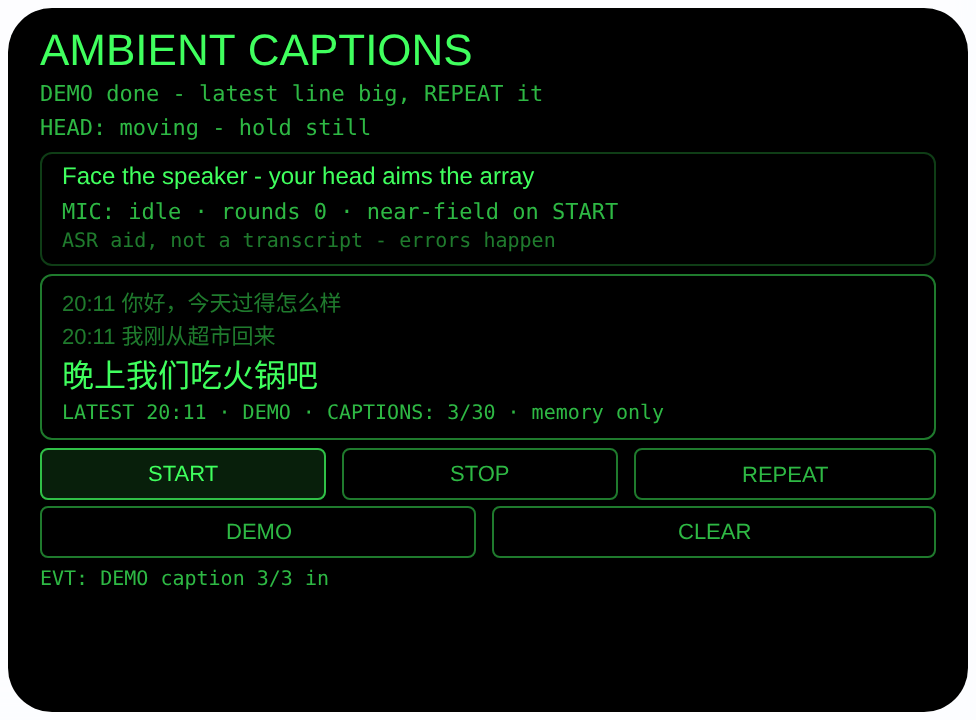
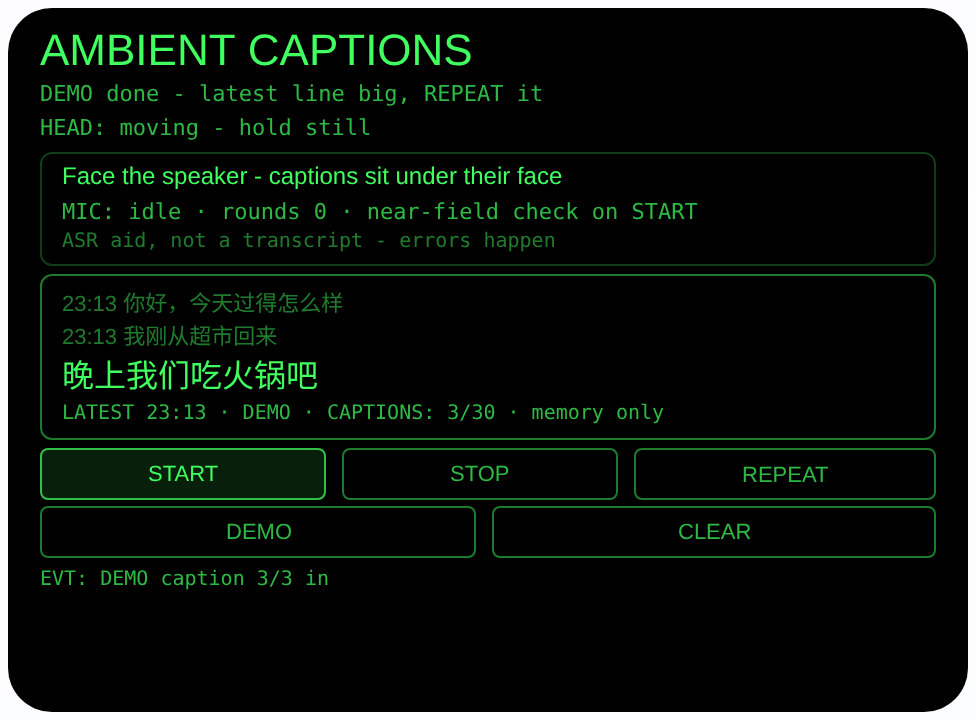
Rework #20 ambient-captions for capability-boundary audit (v1.0.1)

Changed region(s): [[0.2766, 0.2139, 0.707, 0.3056], [0.0922, 0.3972, 0.3689, 0.4889], [0.1537, 0.55, 0.2152, 0.5806]]

diff --git a/ambient-captions/README.md b/ambient-captions/README.md
@@ -27,21 +27,29 @@
 
 ## 指向性设计（为什么必须用眼镜）
 
-- **头就是阵列的瞄准器（HEAD + MIC4）**：4 麦阵列跟
-  着你的头朝向收音，你正对说话人时拾音最好、字幕
-  最准。界面常驻引导行「Face the speaker - your head
-  aims the array」，提醒你用脸对准对方 — 这是手机
-  平放在桌上永远做不到的：它不知道谁在你对面。
-- **为什么选 near-field（MIC4 近场模式）**：START 先
-  按文档方式用 `getUserMedia` 的 `captureSource:
+- **字幕长在对方脸上（HEAD + 显示）**：你正对说话人
+  时，字幕就出现在他的脸下方、你的视线正中央 — 界面
+  常驻引导行「Face the speaker - captions sit under
+  their face」。这是手机平放在桌上永远做不到的：
+  它不知道谁在你对面。诚实边界：识别由宿主
+  SpeechRecognition 在它自己的麦克风通路上完成，
+  字幕准不准由宿主识别管线决定，本 Agent 不声称
+  头部朝向能改变识别输入或字幕质量（朝向对质量的
+  影响未验证，见「未验证」）。
+- **为什么检查 near-field（MIC4 近场模式）**：START
+  先按文档方式用 `getUserMedia` 的 `captureSource:
   'microphone'` + `microphoneMode: 'near-field'` 做
   一次可用性检查（读回 `track.getSettings()`，查完
   立即停轨道）。按媒体文档定义：交谈对象坐在对面
-  1–2 米，是「附近的声音」= near-field；`wearer`
-  优先收佩戴者自己的声音 — 用它你自己的话会顶上来
-  压掉对方，恰好反了；`far-field` 是给房间那头的远
-  距离声源的，对面交谈用不上。模式被设备拒绝
-  （OverconstrainedError）时回退默认麦克风并如实提示。
+  1–2 米，是「附近的声音」= near-field — 检查这个
+  模式就是确认这台设备上存在与面对面交谈距离对应
+  的近距离拾音模式（近距离交谈路径可用）。如实
+  说明：这次检查只验证模式存在，检查流随即停掉、
+  不是识别的输入；真正的字幕识别由宿主
+  SpeechRecognition 在它自己的麦克风通路上完成，
+  检查选哪个模式不会改变识别听到的声音。模式被
+  设备拒绝（OverconstrainedError）时回退默认麦克
+  风并如实提示。
 - **字幕在视线正中（HANDS-FREE 显示）**：单色绿滚动
   字幕栈 — 最新一句 16px 大字，前两句小字各带时间
   （HH:MM）。不用腾手、不用低头看表看手机，眼睛
@@ -81,7 +89,7 @@
 
 | 权限 | 用途 |
 |---|---|
-| RECORD_AUDIO | START 后开麦听对面的人：`getUserMedia` 近场模式可用性检查 + `SpeechRecognition` 逐轮识别生成字幕；不录音、不保存音频、不上传。字幕只存内存（最多 30 句），无任何持久化 |
+| RECORD_AUDIO | START 后：`getUserMedia` 近场模式可用性检查（仅验证模式存在，检查流随即停掉）+ 宿主 `SpeechRecognition`（自有麦克风通路）逐轮识别生成字幕；不录音、不保存音频、不上传。字幕只存内存（最多 30 句），无任何持久化 |
 
 ## 打包与预览
 
@@ -111,8 +119,9 @@ preview-tools/www/）。
 4. 对眼镜说「乐奇，打开 ambient-captions」：请家人坐在对面
    1–2 米处正常聊天，点 START 后正对对方，逐句核对字幕
    与原话的出入（重点记人名、数字的错误率）；然后侧过头
-   45° 再聊几句，比较字幕质量是否明显变差（验证「脸对准
-   = 阵列对准」）；试一次两人同时说话看字幕是否如实地
+   45° 再聊几句，记录字幕质量是否有可观察的变化（识别
+   走宿主管线，本 Agent 不预设朝向会影响质量 — 这是
+   观察项，不是验证项）；试一次两人同时说话看字幕是否如实地
    乱；最后点 REPEAT 与点头重读各试一次 — 这几项就是
    本 Agent 真机可用性的真实边界
 
@@ -121,11 +130,11 @@ preview-tools/www/）。
 | 项目 | 值 |
 |---|---|
 | Agent Name（Studio） | 待导入后回填 |
-| Version（Build） | 1.0.0（待导入后回填） |
+| Version（Build） | 1.0.1（待导入后回填） |
 | App Category | 待导入后回填 |
 | Intent Description | 待导入后回填 |
 | Agent ID | 待导入后回填 |
-| AIX Package Size | 约 15.4 KB（本地打包 `dist/ambient-captions.aix`，分次打包有 ±0.01 KB 级抖动） |
+| AIX Package Size | 约 16.3 KB（本地打包 `dist/ambient-captions.aix`，分次打包有 ±0.01 KB 级抖动） |
 | 状态 | 本地完成，待导入 Studio |
 | Studio | aiui-global.rokid.com（en-US） |
 | 下发方式 | 云端下发 → Hi Rokid（海外版）更新眼镜资源包 |
@@ -162,16 +171,27 @@ preview-tools/www/）。
   预览主机无 `SpeechRecognition`，START 的 FAIL/SKIP
   路径为代码完备、已由 Node 打桩测试覆盖，未在此环境
   触发截图。
+- 1.0.1 审计修复复验（2026-10-24，能力边界审计）：静态
+  检查重跑通过（app.json / package.json / `<script def>`
+  JSON 解析、`<script setup>` 与 app.js `node --check`、
+  grep 无残留）；页面对象 Node 打桩复验 21 项断言全过 —
+  重点核对新界面行：待机行 `MIC: idle · rounds 0 ·
+  near-field check on START`、识别中行 `MIC CHECK:
+  near-field · round N · listening (host ASR)`（模式只
+  出现在 MIC CHECK 检查结果段、识别明确标注宿主
+  ASR）、检查流读回 settings 后立即停轨、无识别器时
+  START 如实 FAIL、字幕栈 30 句上限与 CLEAR 清空
+  不变；预览截图两张已按新文案重拍。
 
 **未验证**
 
-- 真机 4 麦 `near-field` 模式是否被接受、1–2 米面对面
-  的实际拾音与识别质量；近场检查的回退路径未在真机
-  触发过。
+- 真机 `near-field` 模式检查是否被接受、宿主识别在
+  1–2 米面对面距离的实际质量；近场检查的回退路径
+  未在真机触发过。
 - 真实对话里的字幕错误率 — 本 Agent 最大的未知数：
   人名/数字/地址的错误率、口音与语速的影响、多人同时
-  说话时的混乱程度、侧头 45° 时质量下降多少，只能
-  真机多场景实测。
+  说话时的混乱程度、侧头 45° 时字幕质量是否有可观察
+  变化（本 Agent 不预设结论），只能真机多场景实测。
 - 真机头部稳定/点头触发 REPEAT 的灵敏度；TTS 重读
   在嘈杂环境里能否听清；字幕刷新延迟（每轮识别的
   间隔）是否跟得上正常语速。
@@ -189,9 +209,9 @@ Ambient Captions puts live subtitles under the face of the person talking to you
 
 ### Opening Message
 
-Hi, I'm **Ambient Captions** - I subtitle the person sitting across from you, live, right under their face.
+Hi, I'm **Ambient Captions** - I subtitle the person across from you, live, under their face.
 
-Tap **START** and face the speaker: I caption sentence by sentence - newest line big, the last two above it with times. Missed one? **REPEAT** (or a steady head nod) and I'll say it again at your ear. Near-field mic mode fits a partner 1-2 m away. My captions WILL have errors, especially names and numbers - treat me as an aid, never a record. **DEMO** shows three sample lines.
+Tap **START** and face the speaker: I first check the near-field mic mode (partner 1-2 m away), then caption sentence by sentence with the host recognizer - newest line big, last two above with times. Missed one? **REPEAT** (or a steady head nod) repeats it at your ear. Captions WILL have errors, especially names and numbers - an aid, never a record. **DEMO** shows the flow.
 
 ### Preview Media
 
@@ -204,11 +224,25 @@ Tap **START** and face the speaker: I caption sentence by sentence - newest line
 
 ### Change Log
 
+#### Build 1.0.1
+
+**Features added**
+
+- None.
+
+**Improvements**
+
+- None.
+
+**Fixes**
+
+- Corrected a mode/recognition conflation (capability-boundary audit 2026-10-24): the UI listening line and the design notes presented the near-field mic mode as if it shaped the recognition input, and claimed facing the speaker makes captions more accurate. The near-field getUserMedia stream is an availability check only - it is stopped before recognition, and captions are produced by the host SpeechRecognition on its own microphone. The listening line now reads "MIC CHECK: <mode> · round N · listening (host ASR)", the separate mic-check result is shown as history, and the head-orientation caption-quality claim was removed (orientation effect unverified).
+
 #### Build 1.0.0
 
 **Features added**
 
-- Rolling conversation captions: START first runs the documented near-field microphone availability check (a partner 1-2 m away is a nearby source - not the wearer mode, which would favour your own voice, and not far-field, which is tuned for distant sources; labeled fallback to the default microphone when the device rejects that mode), then runs back-to-back zh-CN speech-recognition rounds with a live round counter.
+- Rolling conversation captions: START first runs the documented near-field microphone availability check (a partner 1-2 m away is a nearby source per the media docs - near-field is the mode documented for that distance; the check only verifies the mode is available and its stream is stopped at once, with a labeled fallback to the default microphone when the device rejects that mode), then runs back-to-back zh-CN speech-recognition rounds with a live round counter.
 - A caption stack under the speaker's face: each recognised sentence is appended - the latest line in large type, the previous two lines above it in smaller type with their HH:MM times - capped at 30 lines, held in memory only, never persisted or uploaded, wiped by CLEAR.
 - REPEAT by button or by a head-steady nod, re-speaking the latest caption at your ear through TTS (or the how-to hint when there is no caption yet).
 - A stated error policy: no-speech rounds are counted quietly; persistent recognition errors (not-allowed, service-not-allowed, audio-capture) or five errors in a row stop the captions with the reason on screen instead of spinning forever.

diff --git a/ambient-captions/AGENTS.md b/ambient-captions/AGENTS.md
@@ -16,10 +16,13 @@ Rokid 眼镜环境字幕智能体（AIUI Agent）。
   `getUserMedia({audio:{captureSource:'microphone',
   microphoneMode:'near-field'}})` 做一次近场模式可用性检查
   （读回 `track.getSettings()`，查完立即停轨道）。选
-  near-field 的理由：交谈对象坐在你对面 1–2 米处，按媒体
-  文档的定义这是「附近的声音」；`wearer` 模式优先收佩戴者
-  自己的声音，会把你自己的话顶上来、压掉对方；`far-field`
-  是给房间那头的远距离声源用的，对面交谈用不上。模式被
+  near-field 做检查的理由：交谈对象坐在你对面 1–2 米处，
+  按媒体文档的定义这是「附近的声音」，near-field 正是
+  文档里与这个距离对应的模式 — 检查通过即确认这台
+  设备上存在这条近距离交谈拾音路径。如实边界：检查流
+  查完即停，不是识别的输入；字幕识别由宿主
+  `SpeechRecognition` 在它自己的麦克风通路上完成，
+  检查时选的模式不会改变识别听到的声音。模式被
   设备拒绝（OverconstrainedError）时回退默认麦克风并如实
   提示，不假装模式生效。
 - 滚动字幕（一轮接一轮识别）：随后以基准 Agent 的
@@ -28,9 +31,11 @@ Rokid 眼镜环境字幕智能体（AIUI Agent）。
   （HH:MM）排在上面，再往前的自动滚出。字幕栈最多 30 句，
   **只存内存**：不落盘、不写存储、不上传 — 一场对话不是
   一份录音，页面关掉字幕就没了，CLEAR 立即清空。
-- 对准说话人：界面常驻提示「Face the speaker - your head
-  aims the array」— 4 麦阵列跟着你的头朝向收音，你正对
-  说话人时字幕最准；东张西望时字幕质量会跟着掉。
+- 对准说话人：界面常驻提示「Face the speaker - captions
+  sit under their face」— 正对说话人时字幕就落在他的
+  脸下方、你的视线正中央，你也看得清他的口型。识别
+  质量由宿主识别管线决定；本 Agent 不声称头部朝向会
+  改变识别输入或字幕质量（朝向的影响未验证）。
 - 重读（REPEAT）：最新一句闪得太快没看清时，点 REPEAT 或
   头部稳定时点头（`enableWorldAwareness` +
   `onOrientationStabilityChange` + `onHeadGesture` nod），
